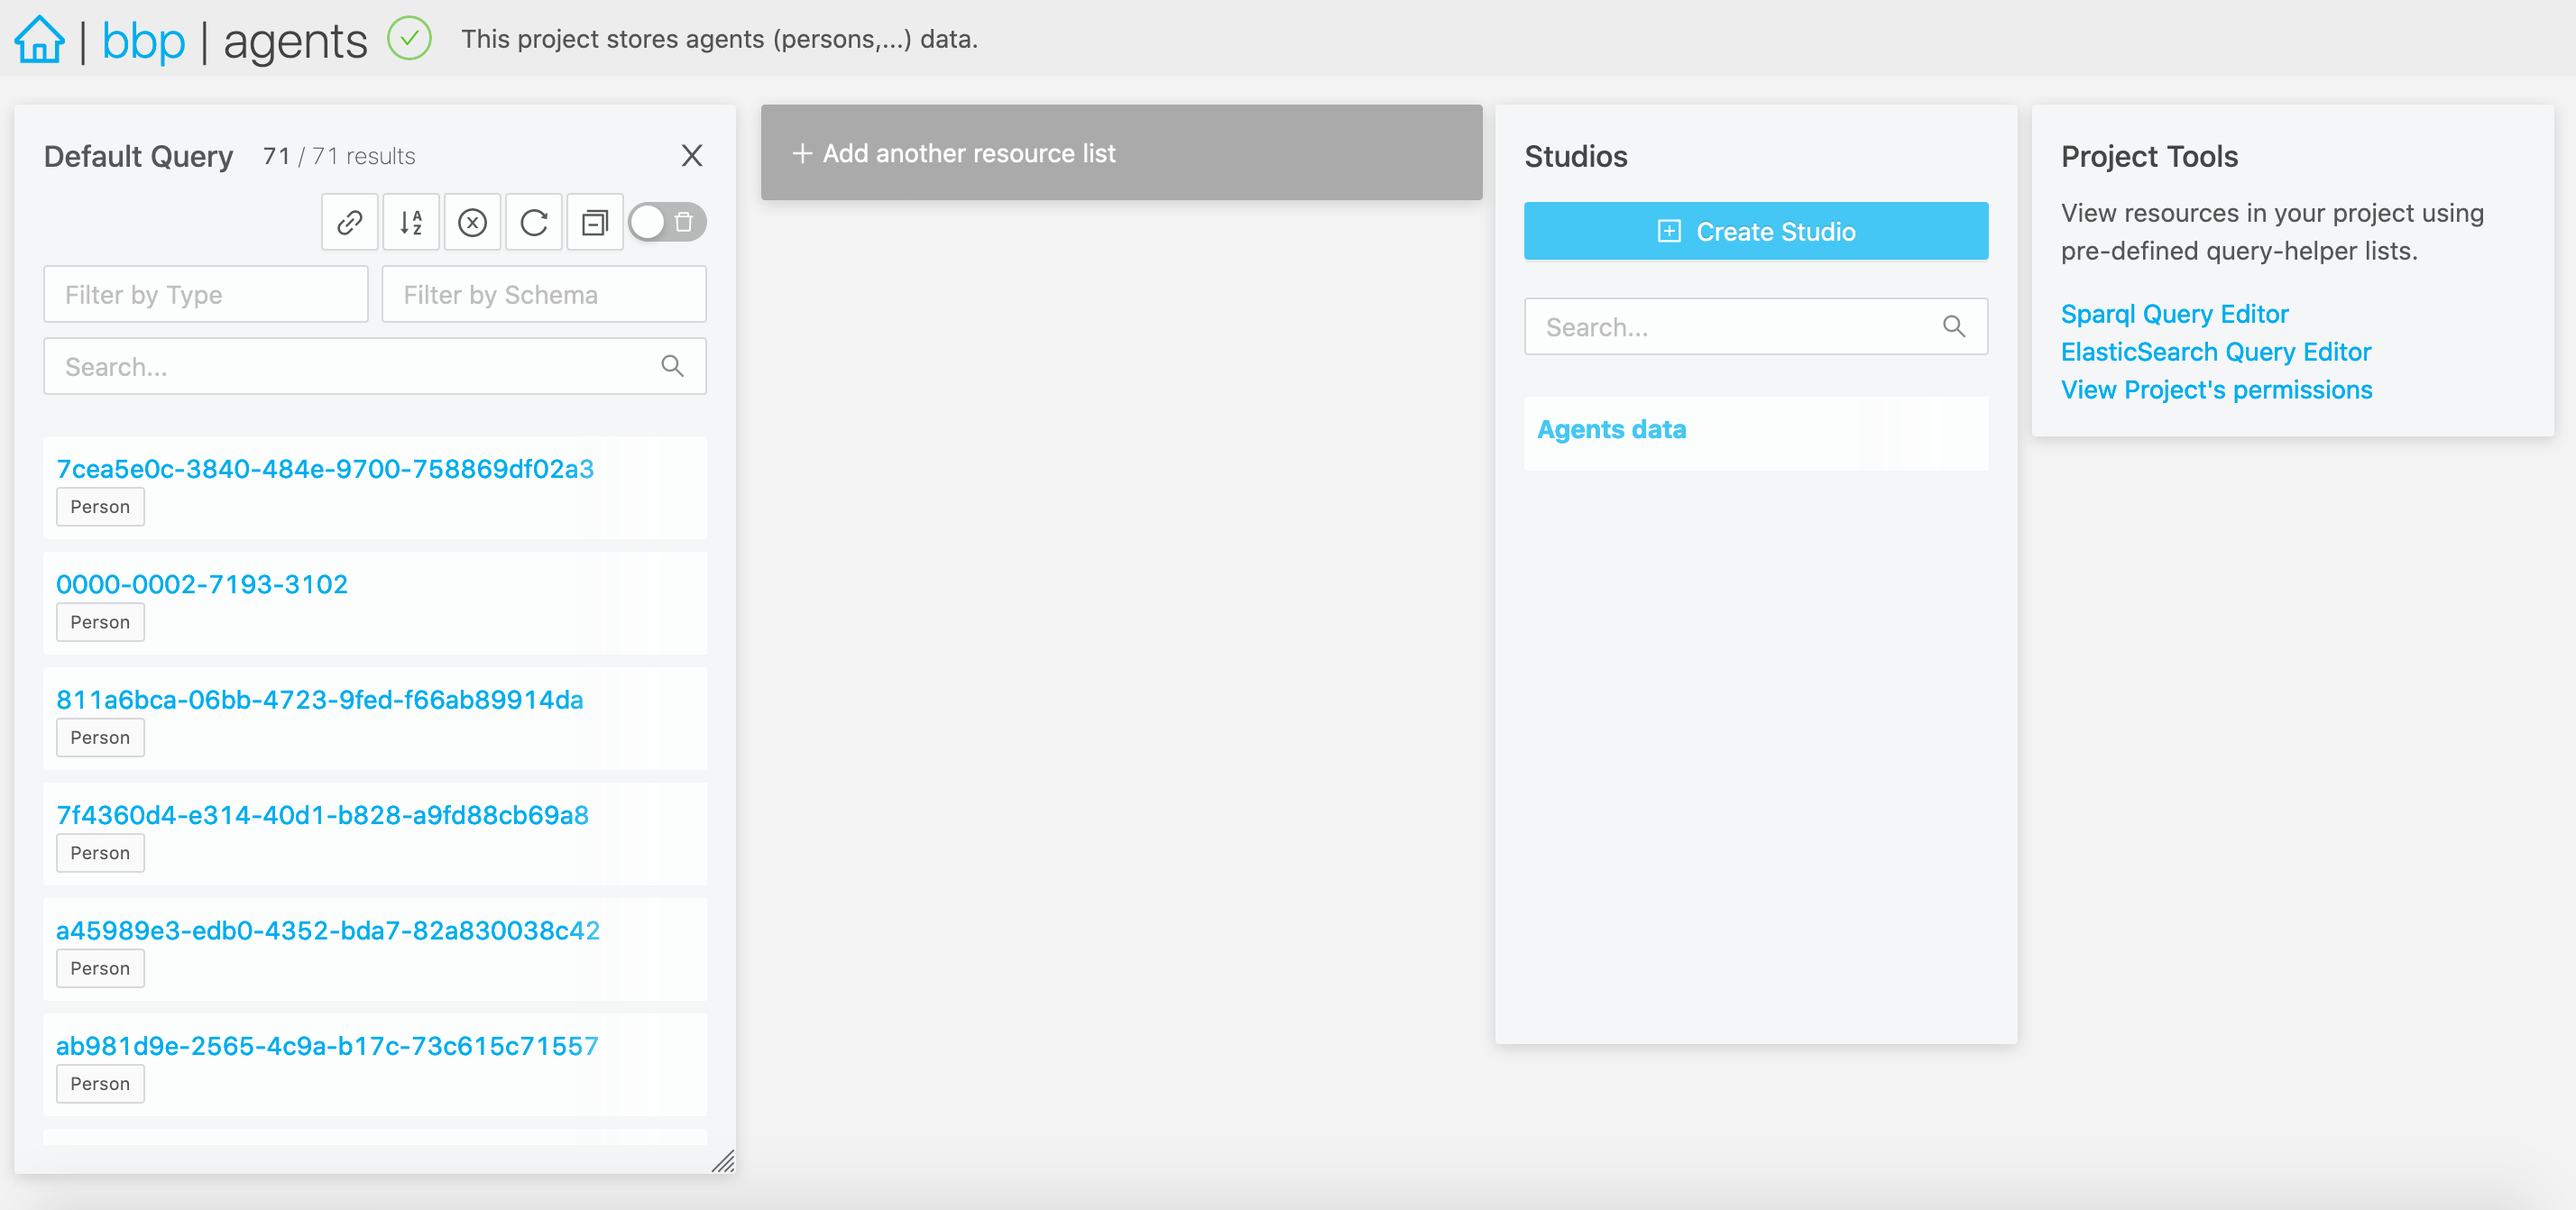
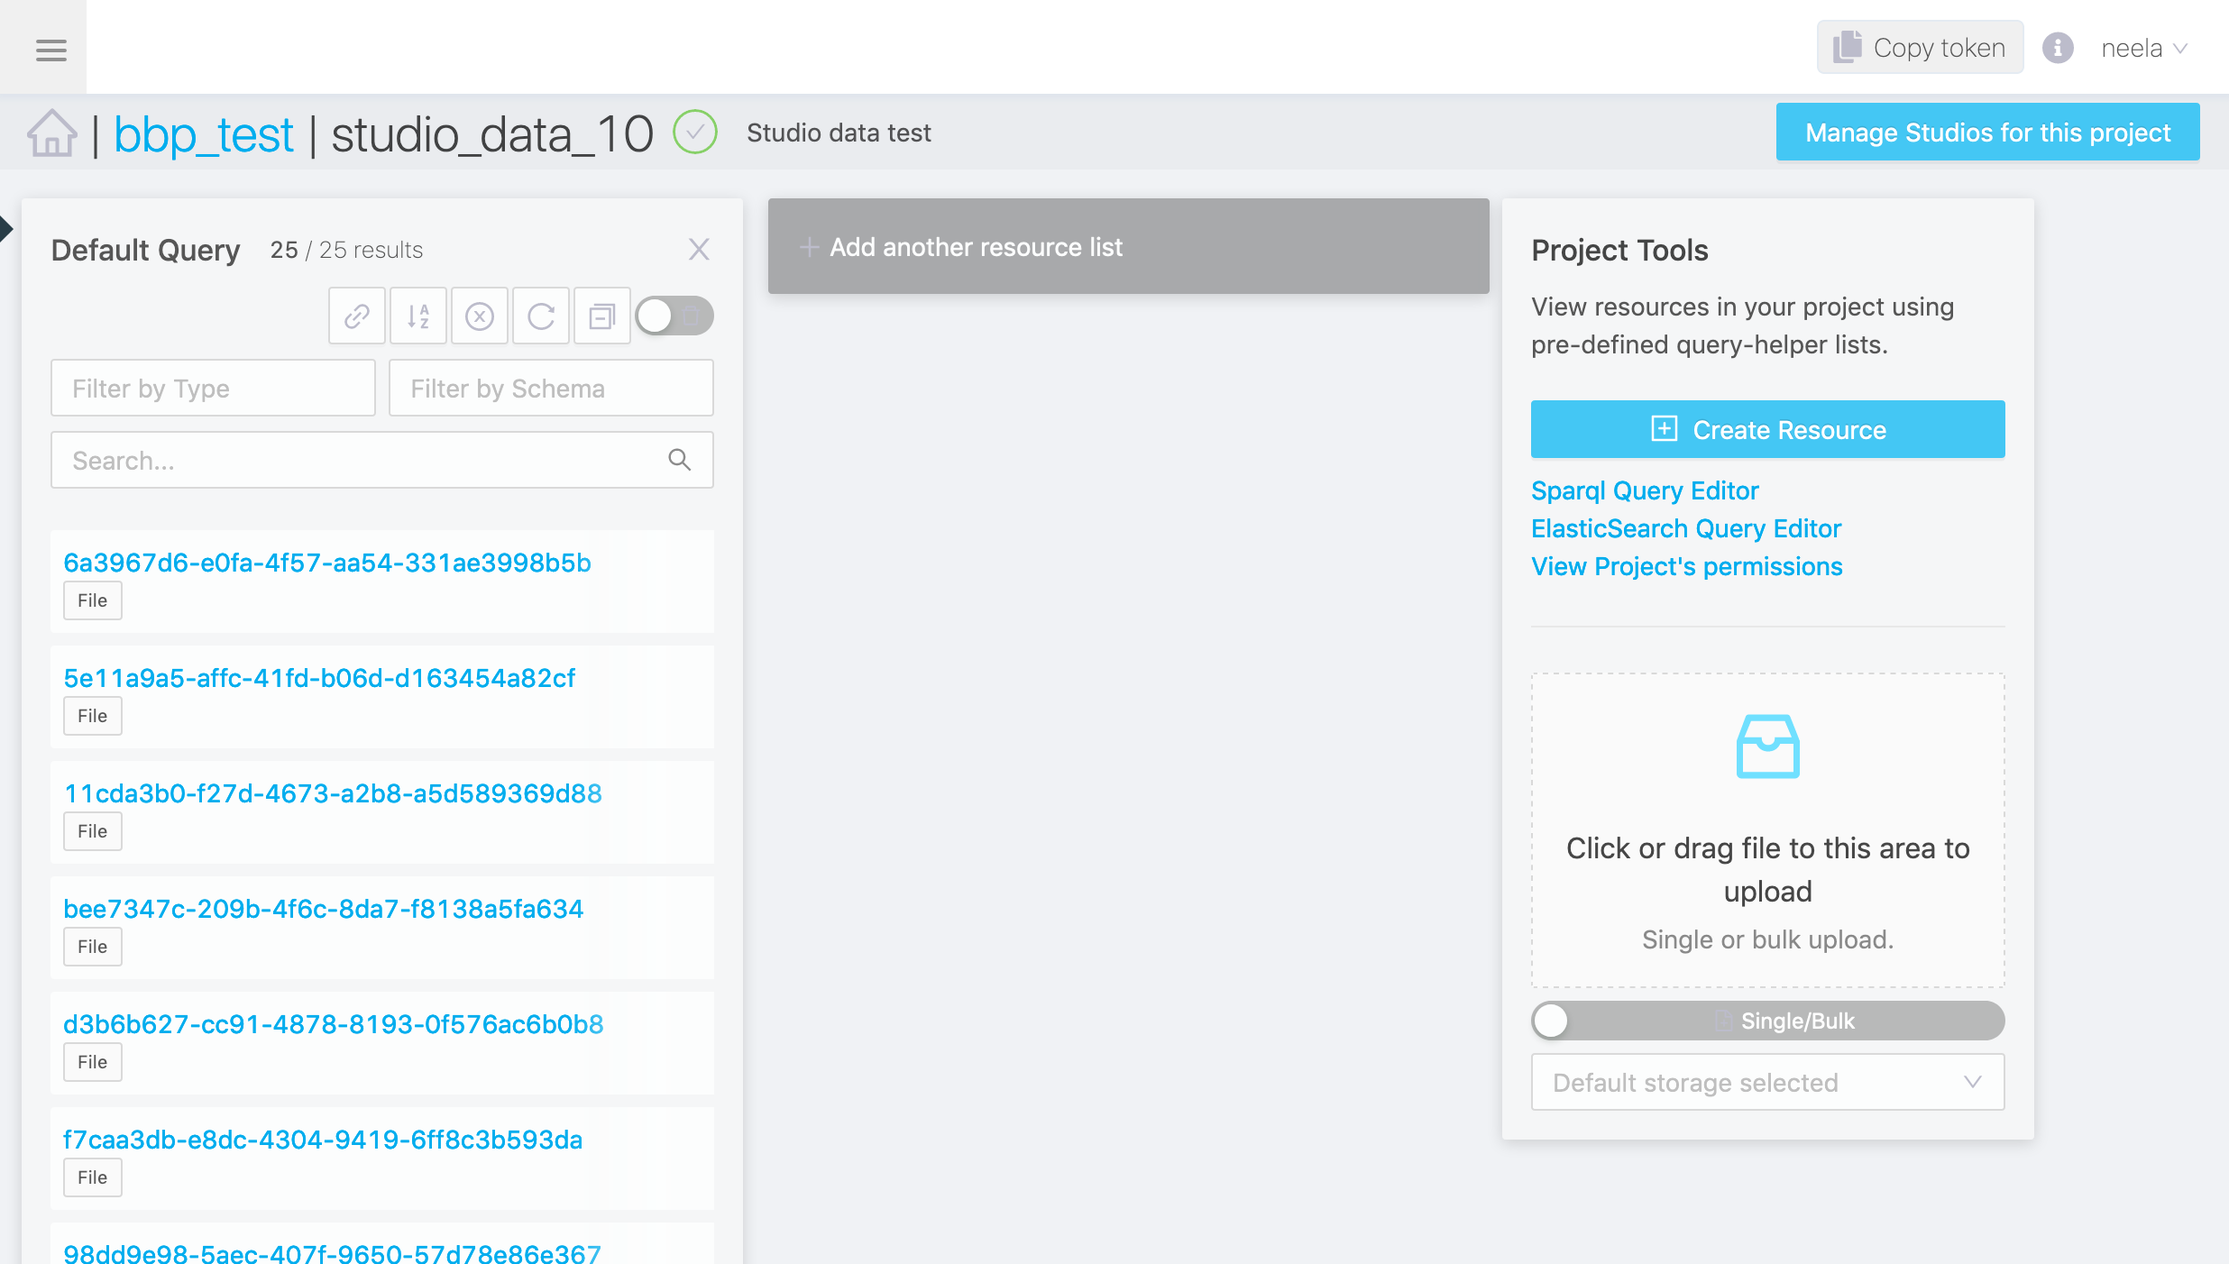
Update image and text for admin sub app

Changed region(s): [[0.0, 0.0, 0.9968, 1.0], [0.6853, 0.5499, 0.9033, 0.886], [0.5918, 0.3361, 0.6541, 0.3666]]

diff --git a/docs/src/main/paradox/docs/fusion/admin.md b/docs/src/main/paradox/docs/fusion/admin.md
@@ -43,8 +43,8 @@ The project view in your admin app is the center stage to manage a project.
 @@@
 
 * On the left hand side, you will find the `Default Query`. You can filter and search resources, order them, as well as share that query with your peers. You can create as many queries as you like by clicking `+ Add another resource list`.
-* The next panel is the `Studios`. Here you can create a new studio in your project, as well as list and search existing studios in the project.
-* Finally, on the right hand side, you find the `Project Tools`. You'll find the SPARQL and elasticsearch query editors, and check the project permissions. You can also @ref:[create a new resource](admin.md#creating-a-new-resource) and upload files.
+* On the right hand side, you find the `Project Tools`. You'll find the SPARQL and elasticsearch query editors, and check the project permissions. You can also @ref:[create a new resource](admin.md#creating-a-new-resource) and upload files.
+* "Manage studios for this project", will take you to the studio sub application. There you can create/edit/update studios for this project.
 
 In the header, the breadcrumb menu shows the organization and project your are in. You can also check the indexing status of your project.
 
@@ -54,6 +54,6 @@ Navigate to the project where you want to create a resource. Click on the “Cre
 
 ## Resource View
 
-> Note: for details about default plugins shipped with Nexus Fusion, @ref:[click here](plugins.md#default-plugins).
+In resource view, you can see various visual representations of a Nexus Resource. Based on the resource type, you will see a set of plugins, each displayed on its own expandable section. By default, there will only be an admin plugin. You can read more about admin plugin  @ref:[here](plugins.md#default-plugins). 
 
-> To do, and reference this anchor in other pages such as studios and plugins.
+
